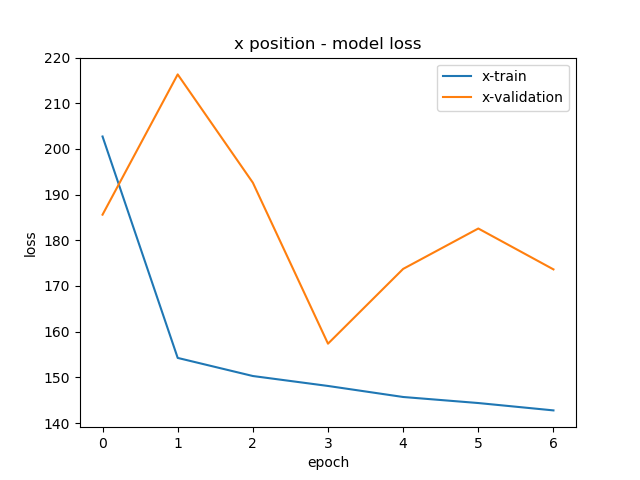
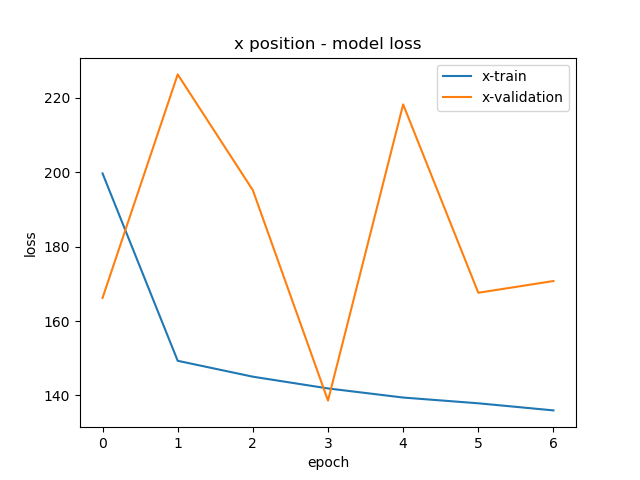
no real improvements?

diff --git a/code/find_hit_position_1dcnn_new.py b/code/find_hit_position_1dcnn_new.py
@@ -98,8 +98,10 @@ x = Activation("relu")(x)
 x = BatchNormalization(axis=-1)(x)
 x = MaxPooling1D(pool_size=2,padding='same')(x)
 x = Dropout(0.25)(x)
-x = Conv1D(64, kernel_size=3, padding="same")(inputs)
+x = Conv1D(64, kernel_size=3, padding="same")(x)
 x = Activation("relu")(x)
+x = Conv1D(64, kernel_size=3, padding="same")(x)
+x = Activation("relu")(x) 
 x = BatchNormalization(axis=-1)(x)
 x = MaxPooling1D(pool_size=2,padding='same')(x)
 x = Dropout(0.25)(x)
@@ -129,14 +131,14 @@ model = Model(inputs=[inputs,angles],
 # Display a model summary
 model.summary()
 
-history = model.load_weights("checkpoints/cp_x%s.ckpt"%(img_ext))
+#history = model.load_weights("checkpoints/cp_x%s.ckpt"%(img_ext))
 
 # Compile the model
 model.compile(loss=loss_function,
               optimizer=optimizer,
               metrics=['mse']
               )
-'''
+
 #cmsml.tensorflow.save_graph("data/graph_x_%s.pb.txt"%(img_ext), model, variables_to_constants=True)
 callbacks = [
 EarlyStopping(patience=3),
@@ -155,7 +157,7 @@ history = model.fit([xpix_flat_train[:,:,np.newaxis],angles_train], [x_train],
 #cmsml.tensorflow.save_graph("inference/data/graph_x_%s.pb"%(img_ext), model, variables_to_constants=False)
 
 plot_dnn_loss(history.history,'x',img_ext)
-'''
+
 print("x training time for dnn",time.clock()-train_time_x)
 
 start = time.clock()
